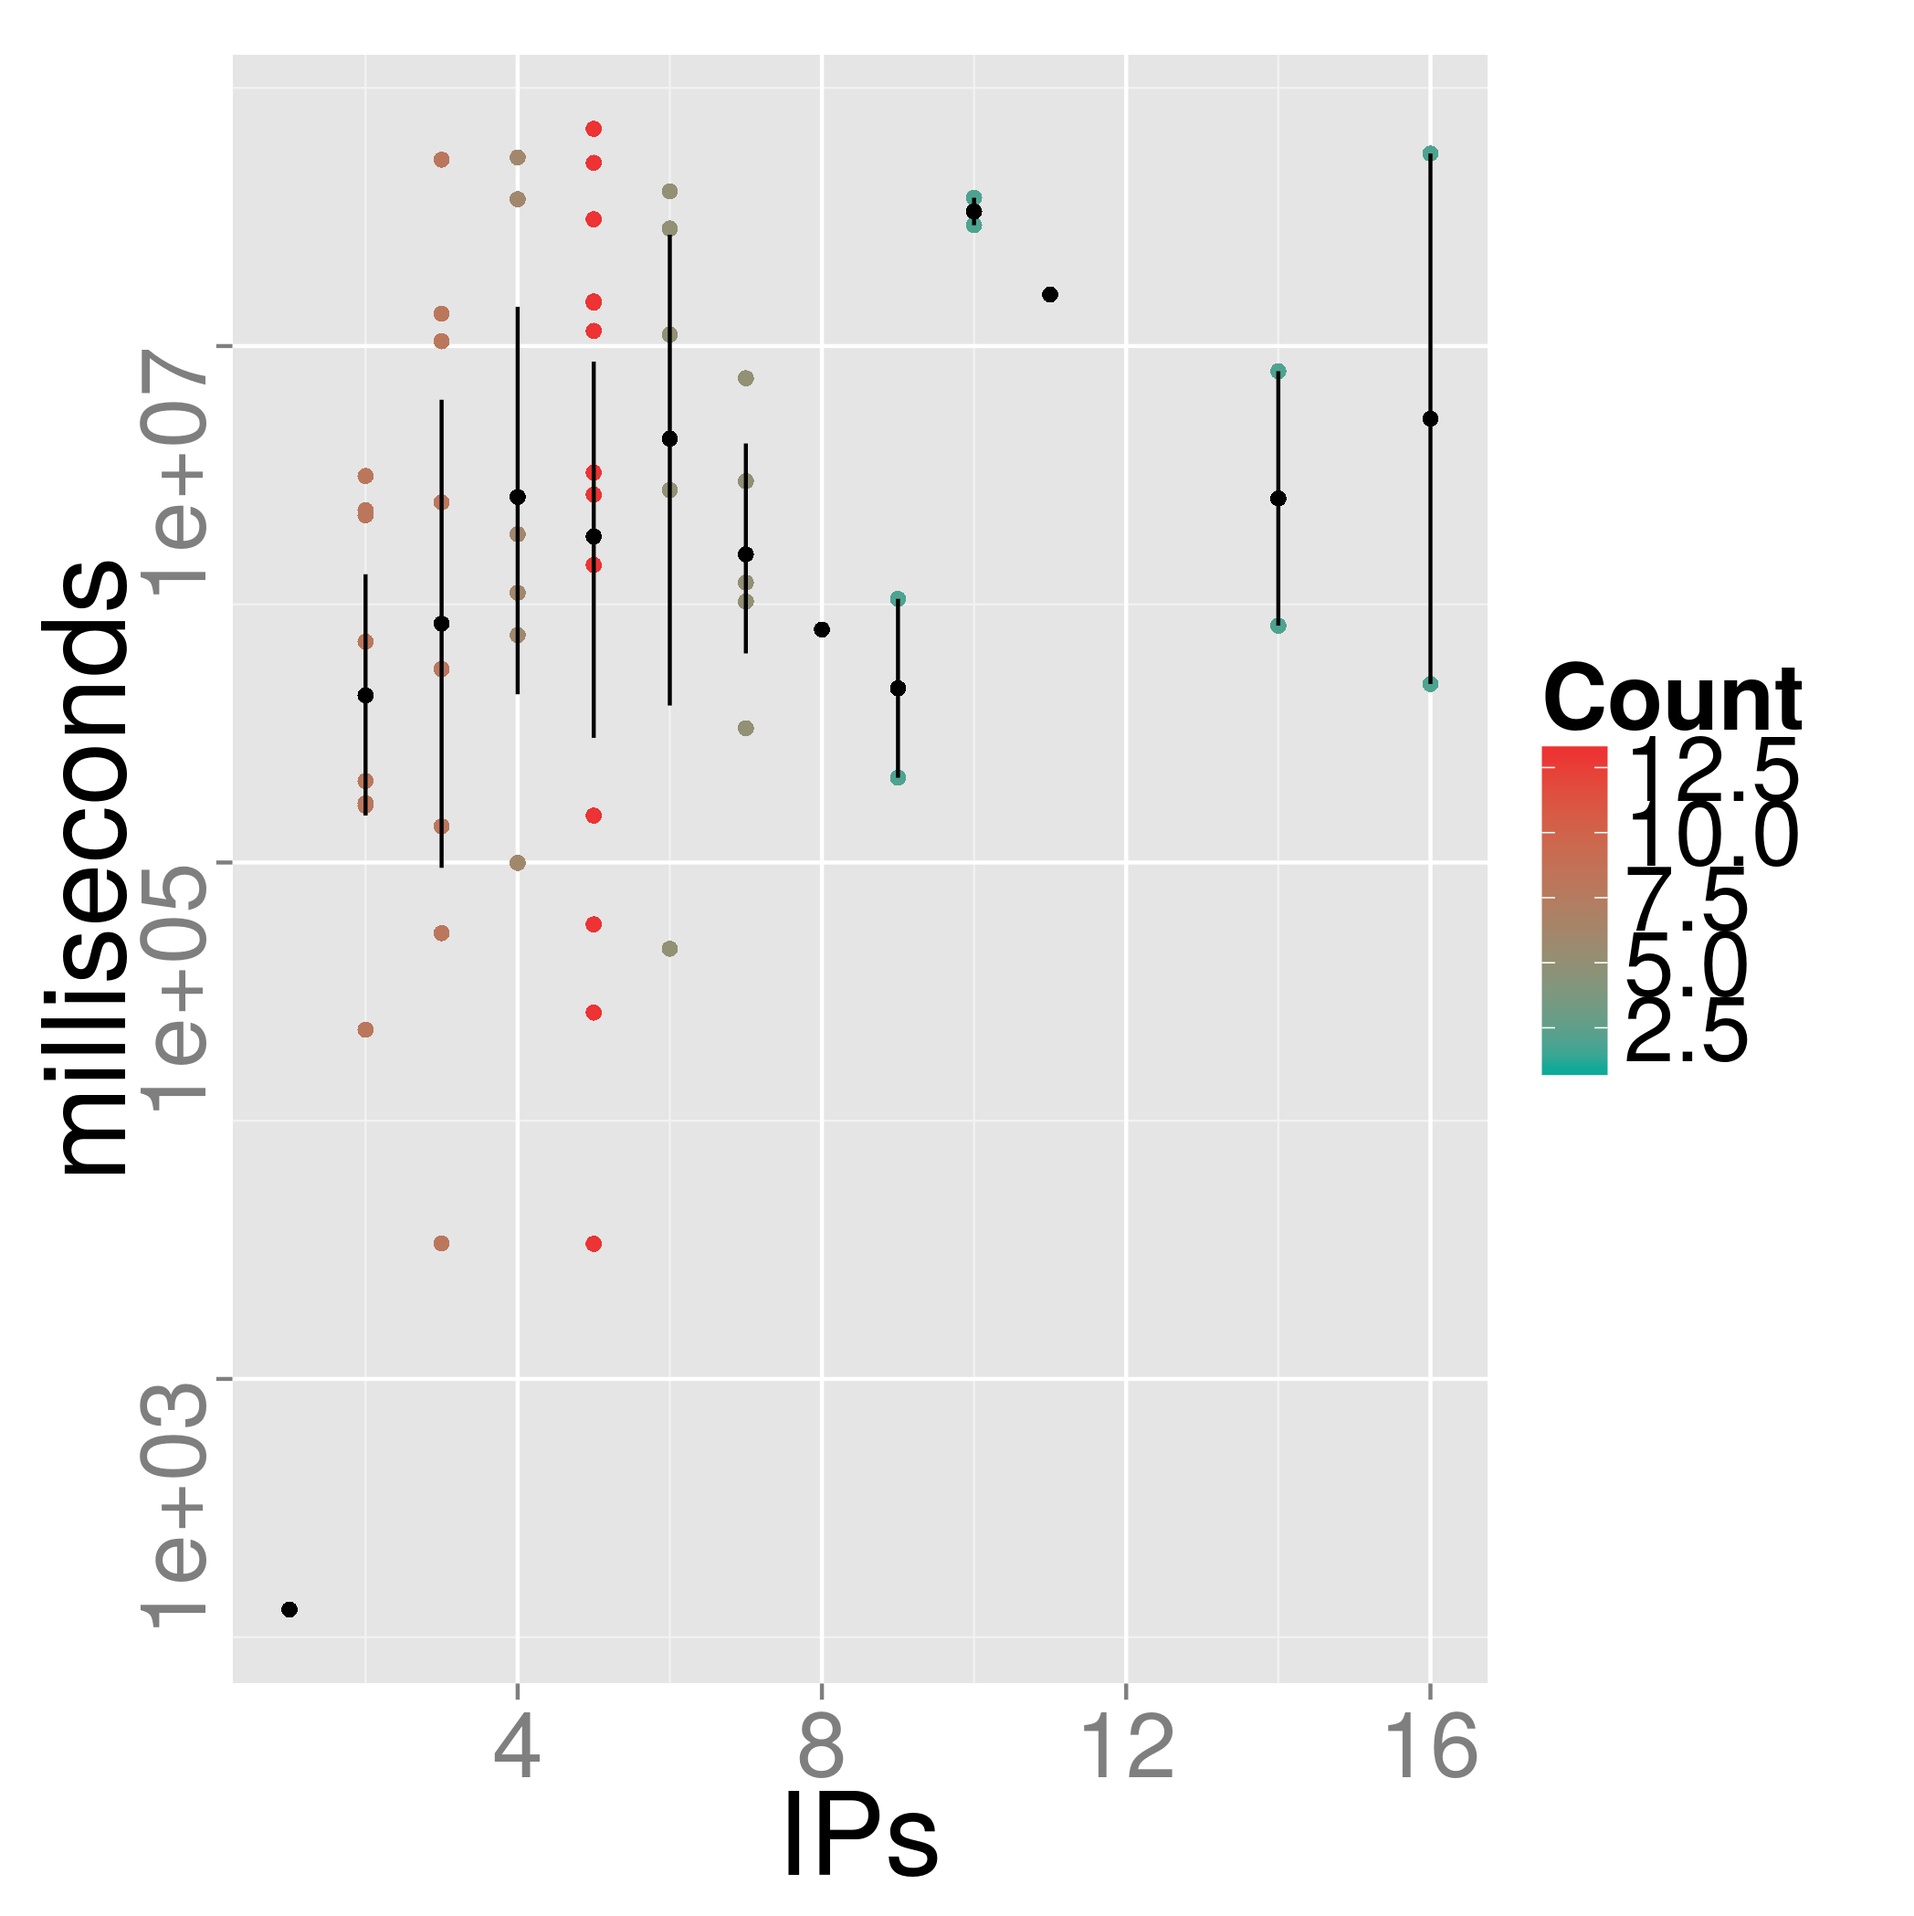
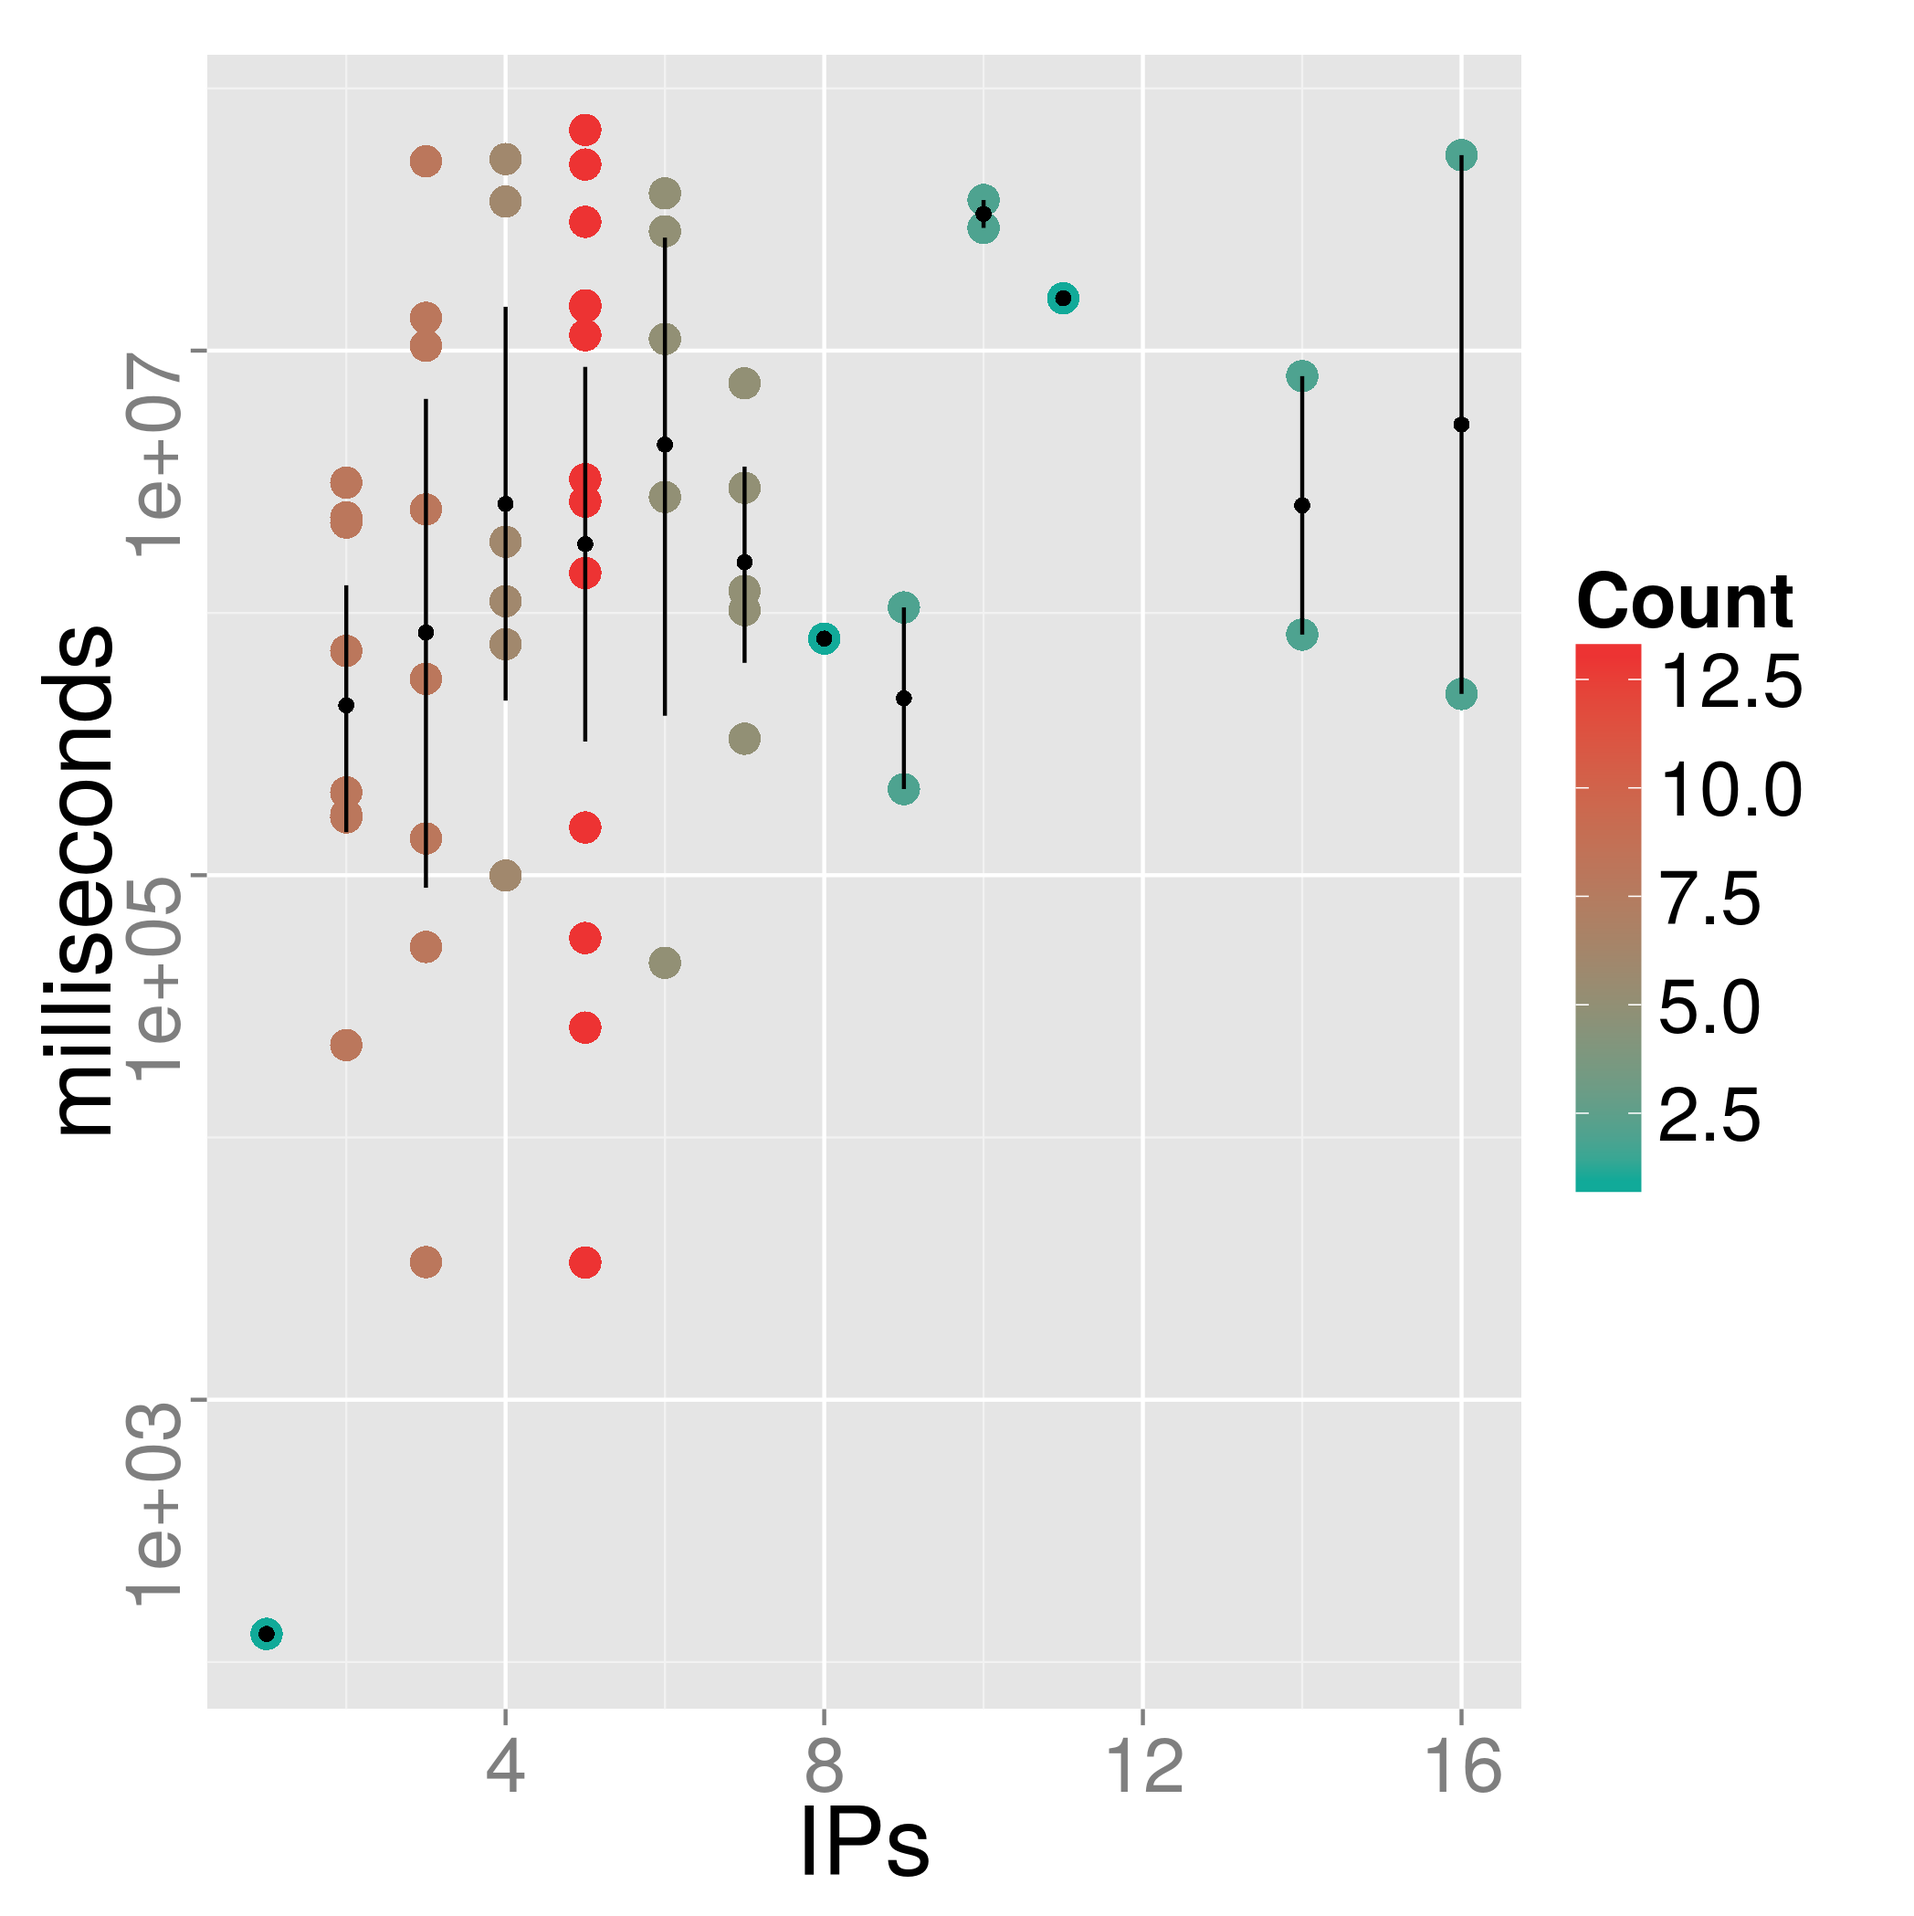
Bigger dots and bigger legends
Improving graphics refs #91

diff --git a/special-issue-ci/volunteer-clouds-ieee-ci-si.tex b/special-issue-ci/volunteer-clouds-ieee-ci-si.tex
@@ -557,14 +557,14 @@ will voluntarily perform.
 \includegraphics[width=0.32\linewidth]{time-vs-ips-OS-7-31.png}
 \caption{Duration of experiments vs. number of different IPs (nodes)
   participating in it, with averages and standard deviation shown as
-  red dots; in the case there is a single dot, there was a single
-  experiment in which many computers participated (for instance, 16
+  black dots and lines; in the case there is a single dot, there was a single
+  experiment in which so many computers participated (for instance, 16
   computers in the experiment in the far left or 29 in the middle
   one). 
-Shades of gray indicate how many experiments included that many unique IPs,
-so lighter shade for a column of dots indicates that a particular number
+Shades of gray or color indicate how many experiments included that many unique IPs,
+so lighter (bluer) shade for a column of dots indicates that a particular number
 of computers happened less frequently, while darker shade or closer to
-redmeans more frequency. 
+red means more frequency. 
 From left to right, experiments 4/4, 4/24 and 7/31.}
 \label{fig:duration}
 \end{figure}
